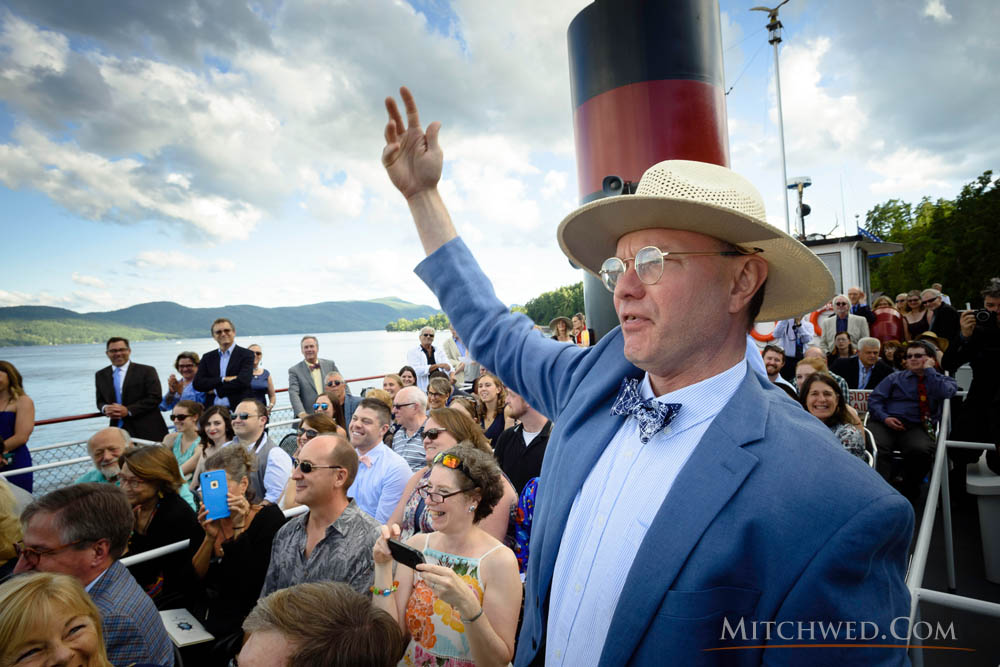
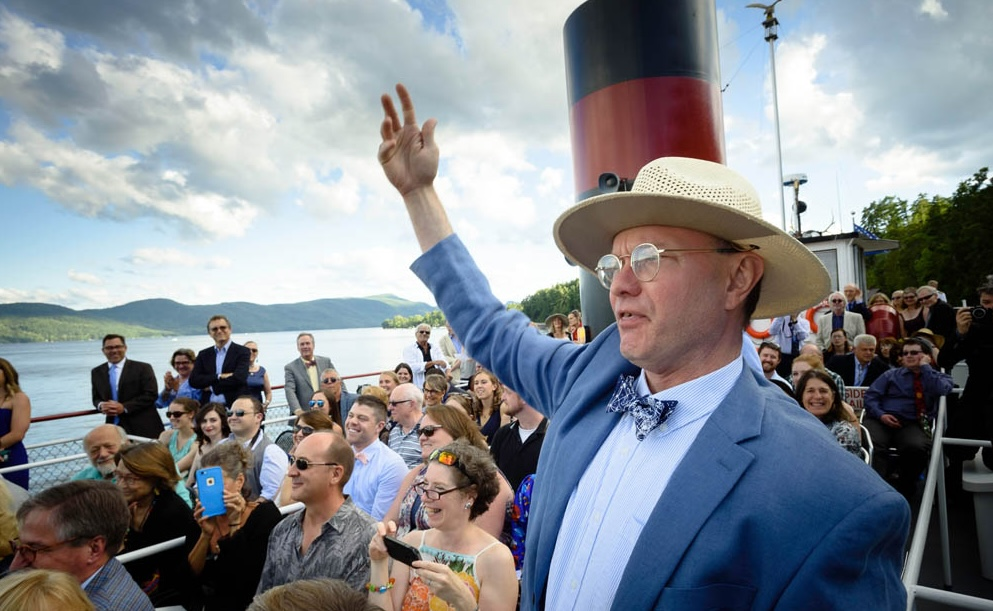
Refine EEK archive gallery layout and image crops

diff --git a/custom-css.css b/custom-css.css
@@ -565,3 +565,189 @@ img{display:block;max-width:100%}
     background:none;
   }
 }
+/* =========================================================
+   ARCHIVE — SHOW FULL PHOTO ON HOVER
+========================================================= */
+
+@media (hover: hover) and (pointer: fine) {
+
+  .archive-event-gallery figure {
+    background: #171815;
+  }
+
+  .archive-event-gallery img {
+    transition:
+      transform 0.35s ease,
+      filter 0.35s ease;
+  }
+
+  .archive-event-gallery figure:hover img {
+    object-fit: contain;
+    object-position: center;
+  }
+}
+/* =========================================================
+   EMILY + CONNOR ARCHIVE — EDITORIAL PHOTO GRID
+========================================================= */
+
+@media (min-width: 721px) {
+
+  .archive-event:first-child .archive-event-gallery {
+    display: grid;
+
+    grid-template-columns:
+      minmax(0, 1.45fr)
+      minmax(260px, 0.75fr);
+
+    grid-template-rows: repeat(3, 190px);
+
+    gap: 10px;
+  }
+
+
+  /* First three horizontal images stack on the left */
+.archive-event:first-child
+.archive-event-gallery
+figure:nth-child(1) img {
+  object-position: center 30%;
+}
+
+  .archive-event:first-child .archive-event-gallery figure:nth-child(2) {
+    grid-column: 1;
+    grid-row: 2;
+  }
+
+  .archive-event:first-child .archive-event-gallery figure:nth-child(3) {
+    grid-column: 1;
+    grid-row: 3;
+  }
+
+
+  /* Groomsman portrait owns the full right side */
+  .archive-event:first-child .archive-event-gallery figure:nth-child(4) {
+    grid-column: 2;
+    grid-row: 1 / 4;
+  }
+
+
+  .archive-event:first-child .archive-event-gallery figure {
+    margin: 0;
+    overflow: hidden;
+    border-radius: 18px;
+  }
+
+  .archive-event:first-child .archive-event-gallery img {
+    width: 100%;
+    height: 100%;
+
+    object-fit: cover;
+    object-position: center;
+  }
+
+
+  /* Keep more of the vertical composition visible */
+  .archive-event:first-child
+  .archive-event-gallery
+  figure:nth-child(4) img {
+    object-position: center 30%;
+  }
+}
+/* =========================================================
+   EMILY + CONNOR — FINAL EDITORIAL ARCHIVE LAYOUT
+========================================================= */
+
+@media (min-width: 721px) {
+
+  /* Tighten the header just for Emily + Connor */
+  .archive-event:first-child .archive-event-head {
+    display: block;
+
+    margin-bottom: 24px;
+  }
+
+  .archive-event:first-child .archive-event-head h2 {
+    margin-bottom: 12px;
+  }
+
+  .archive-event:first-child .archive-event-head p {
+    max-width: 720px;
+  }
+
+
+  /* Editorial gallery */
+  .archive-event:first-child .archive-event-gallery {
+    display: grid;
+
+    grid-template-columns:
+      repeat(7, minmax(0, 1fr))
+      repeat(5, minmax(0, 1fr));
+
+    grid-template-rows:
+      300px
+      250px;
+
+    gap: 10px;
+  }
+
+
+  /* Large horizontal hero */
+  .archive-event:first-child
+  .archive-event-gallery
+  figure:nth-child(1) {
+    grid-column: 1 / 8;
+    grid-row: 1;
+  }
+
+
+  /* Two smaller horizontals underneath */
+  .archive-event:first-child
+  .archive-event-gallery
+  figure:nth-child(2) {
+    grid-column: 1 / 4;
+    grid-row: 2;
+  }
+
+  .archive-event:first-child
+  .archive-event-gallery
+  figure:nth-child(3) {
+    grid-column: 4 / 8;
+    grid-row: 2;
+  }
+
+
+  /* Tall groomsman image */
+  .archive-event:first-child
+  .archive-event-gallery
+  figure:nth-child(4) {
+    grid-column: 8 / 13;
+    grid-row: 1 / 3;
+  }
+
+
+  .archive-event:first-child
+  .archive-event-gallery figure {
+    margin: 0;
+
+    border-radius: 18px;
+    overflow: hidden;
+  }
+
+  .archive-event:first-child
+  .archive-event-gallery img {
+    width: 100%;
+    height: 100%;
+
+    object-fit: cover !important;
+    object-position: center;
+
+    transform: none !important;
+  }
+
+
+  /* Undo the earlier hover experiment */
+  .archive-event:first-child
+  .archive-event-gallery figure:hover img {
+    object-fit: cover !important;
+    transform: none !important;
+  }
+}
